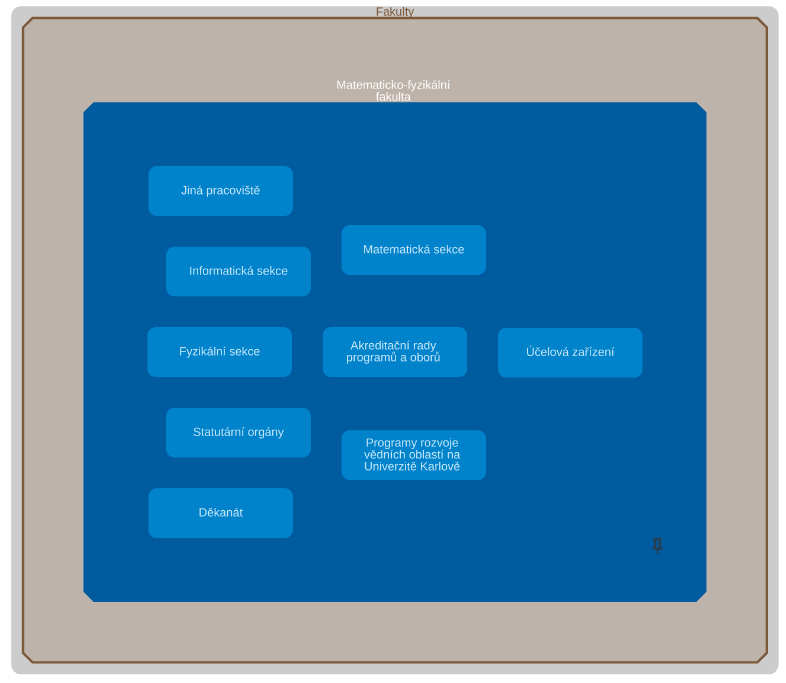
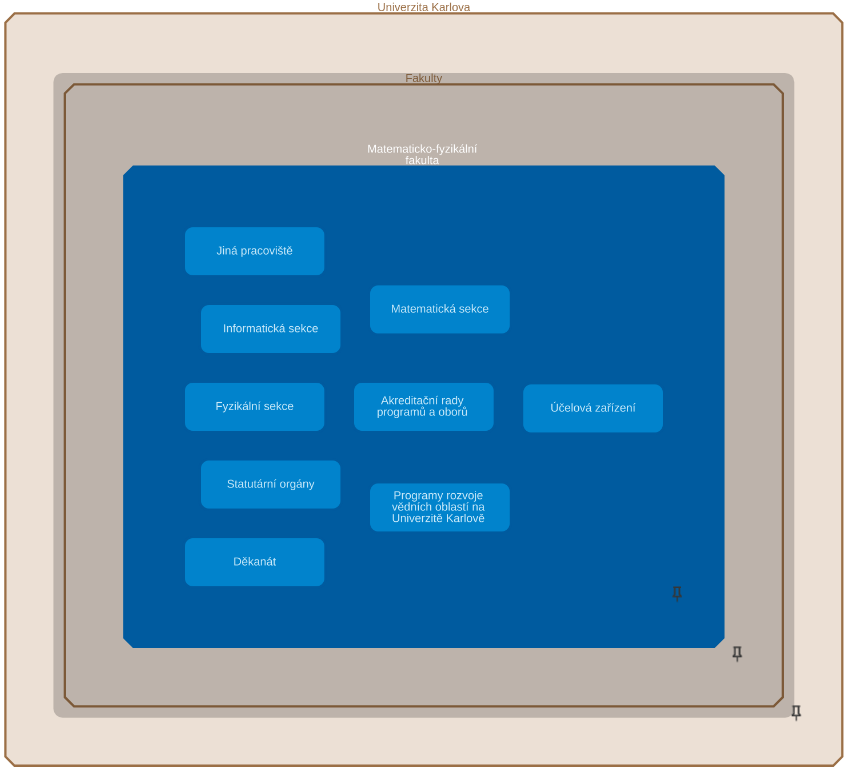
updated image

diff --git a/clustering_user_documentation.md b/clustering_user_documentation.md
@@ -4,7 +4,7 @@
 - [Get started](#GetStarted)
 
 ---
-<h2 id="motivation">Motivation<h3>
+<h2 id="motivation">Motivation</h2>
 
 We all know how zoom in/out works on mapping platforms such as [google maps](https://maps.google.com), maps.cz, etc. Zoom is used to increase or decrease the zoom level at a specific point and show more or less detail on a map.
 
@@ -14,9 +14,15 @@ Our extension of the original Knowledge Graph browser is inspired by such mappin
 
 This guide will explain and teach you how the clustering and grouping extension works.
 
-<h2 id="hierarchical-groups">Hierarchical groups</h2>
+<h3 id="hierarchical-relationship">Hierarchical relationship</h3>
 
-In our extension, we introduce the concept of hierarchical groups. 
+In our approach, we introduce the concept of hierarchical relationships. 
+
+Typically, nodes in a graph are related to each other, for example, a company has employees, university has scientists, scientist has awards, scientist writes scientific papers, university has departments, and many other examples. In what follows, for simplicity, we will consider universities and departments as an example, and relation between them will be - "university has department(s)".
+
+One of the possible ways to visualize such relations is to add a hierarchy between entities, that is, in our example, the university acts as a parent node, and its departments act as child nodes. In such case, "university has department(s)" relation is hierarchical one, namely *"parent-child relationship"*.
+
+<h3 id="hierarchical-groups">Hierarchical groups</h3>
 
 > A hierarchical group is a cluster of nodes that are related to each other by parent-child relationships. 
 
@@ -26,8 +32,9 @@ See the picture below for an example:
     <img src="img/child_parent_relation.png" alt="parent-child-relationship" width="600"/>
 </p>
 
+Here, the *"Fakulty"* node plays the role of the parent of the *"Matematicko-fyzikální fakulta"* node, which in turn is the parent of the internal nodes that are light-blue and have titles inside the node.
 
-
+Hierarchical group is predefined in the visual configuration by the technician.
 
 
 
